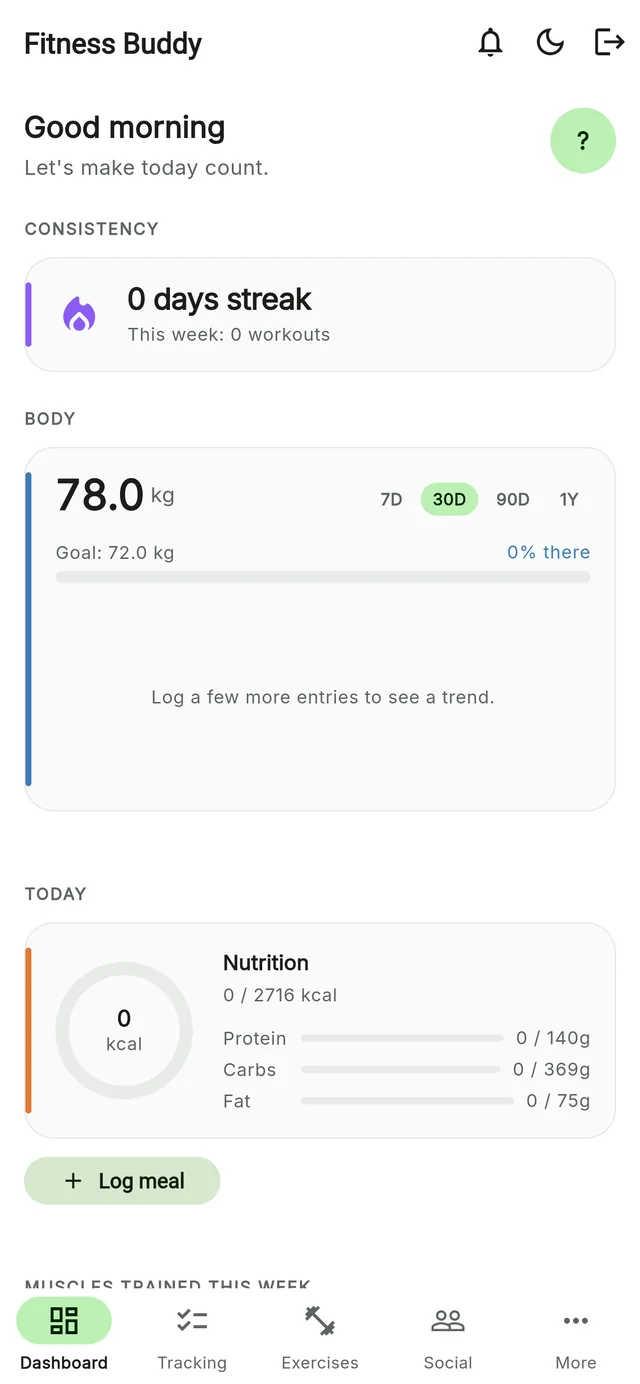
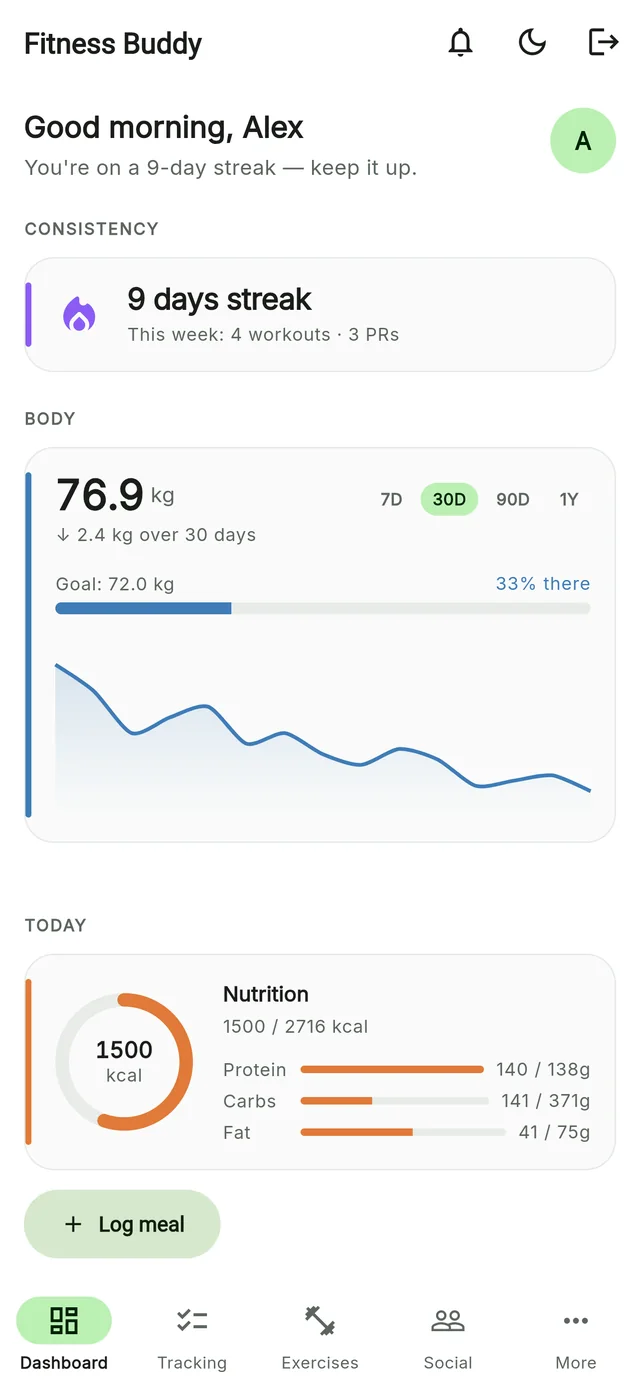
docs: landing page — data-filled screenshots, dark-mode fixes, new social card

diff --git a/docs/assets/site.css b/docs/assets/site.css
@@ -239,7 +239,7 @@ section { position: relative; }
 /* open source */
 .oss {
   display: grid; grid-template-columns: .9fr 1.1fr; gap: 48px; align-items: center;
-  background: linear-gradient(140deg, var(--green-deep), #14401a 70%);
+  background: linear-gradient(140deg, #1b5e20, #14401a 70%);
   color: #f3faf3; border-radius: 32px; padding: 56px; position: relative; overflow: hidden;
 }
 .oss::after { content: ""; position: absolute; right: -80px; top: -100px; width: 320px; height: 320px; border-radius: 50%; background: var(--violet); opacity: .28; filter: blur(60px); }
@@ -249,7 +249,7 @@ section { position: relative; }
 .oss .cta-row { margin-top: 24px; }
 .oss .btn--ghost { background: transparent; color: #fff; border-color: rgba(255,255,255,.35); }
 .oss .btn--ghost:hover { border-color: #fff; }
-.oss .btn--light { background: #fff; color: var(--green-deep); }
+.oss .btn--light { background: #fff; color: #1b5e20; }
 .code {
   background: #0b1a0e; border: 1px solid rgba(255,255,255,.12); border-radius: 16px; padding: 22px 24px;
   font: 500 13.5px/1.75 ui-monospace, SFMono-Regular, Menlo, Consolas, monospace; color: #cfe9d2; overflow-x: auto; white-space: pre;

diff --git a/docs/index.html b/docs/index.html
@@ -237,7 +237,7 @@
               <img data-step-img src="assets/img/exercises.webp" width="640" height="1384" alt="Exercise library">
               <img data-step-img src="assets/img/nutrition.webp" width="640" height="1384" alt="Nutrition tracker">
               <img data-step-img src="assets/img/wellness.webp" width="640" height="1384" alt="Wellness reminders list">
-              <img data-step-img src="assets/img/dashboard.webp" width="640" height="1384" alt="Progress dashboard">
+              <img data-step-img src="assets/img/progress.webp" width="640" height="1384" alt="Progress dashboard with weight trend, nutrition and muscles trained this week">
             </div>
           </div>
         </div>
